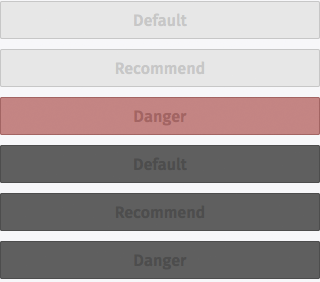
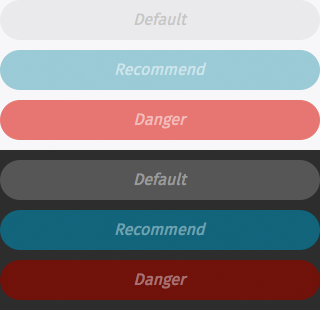
updated buttons demo page

diff --git a/_includes/building-blocks/buttons_2.html b/_includes/building-blocks/buttons_2.html
@@ -1,9 +1,9 @@
 <div>
   <button disabled="disabled">Default</button>
-  <a class="recommend" role="button" aria-disabled="true" href="#">Recommend</a>
+  <a class="bb-button recommend" aria-disabled="true" href="#">Recommend</a>
   <button class="danger" disabled="disabled">Danger</button>
 </div>
-<div class="dark"><!-- disabled buttons over dark background -->
+<div class="skin-dark"><!-- disabled buttons over dark background -->
   <button disabled="disabled">Default</button>
   <button class="recommend" disabled="disabled">Recommend</button>
   <button class="danger" disabled="disabled">Danger</button>

diff --git a/_includes/building-blocks/buttons_3.html b/_includes/building-blocks/buttons_3.html
@@ -6,6 +6,6 @@
     <button disabled="disabled">Disabled</button>
   </li>
   <li><button>Action 1</button></li>
-  <li><button class="icon icon-view">View Name</button></li>
-  <li><button class="icon icon-dialog">Tuesday September 18, 2012</button></li>
+  <li><button data-icon="forward">View Name</button></li>
+  <li><button data-icon="expand">Tuesday September 18, 2012</button></li>
 </ul>

diff --git a/css/building_blocks.css b/css/building_blocks.css
@@ -52,6 +52,17 @@ form[role="dialog"][data-type="confirm"] > section {
   margin-left: 0;
 }
 
+.example .buttons .skin-dark {
+  padding-top: 1rem;
+  background: #2d2d2d;
+}
+
+.example .buttons a:hover,
+.example .buttons a:focus {
+  text-decoration: none;
+  color: #fff;
+}
+
 /* ADDITIONAL STYLING */
 /* Lists */
 .example [data-type="list"] {

diff --git a/_includes/building-blocks/buttons_1.html b/_includes/building-blocks/buttons_1.html
@@ -1,3 +1,3 @@
 <button>Default</button>
-<a class="recommend" role="button" href="#">Primary</a>
+<a class="bb-button recommend" href="#">Primary</a>
 <button class="danger">Danger</button>

diff --git a/building-blocks/buttons.md b/building-blocks/buttons.md
@@ -7,10 +7,10 @@ h2: <strong>Building Blocks:</strong> markup & examples
 
 ## Buttons
 
-Buttons perform an action when tapped by the user. Firefox OS has a wide variety of button styles to accommodate different uses and contexts. 
+Buttons perform an action when tapped by the user. Firefox OS has a wide variety of button styles to accommodate different uses and contexts.
 
 > ### Characteristics
-> * Buttons have two components: a visual target and a hit target. The visual target is the button the user sees on the screen. The hit target is an invisible area that responds to the tap. To minimize tapping errors, the hit target is typically larger than the visual target. 
+> * Buttons have two components: a visual target and a hit target. The visual target is the button the user sees on the screen. The hit target is an invisible area that responds to the tap. To minimize tapping errors, the hit target is typically larger than the visual target.
 > * Buttons have two states: normal and pressed.
 > * Disabled buttons are buttons that do not respond to a tap. Disabled buttons are dimmed.
 
@@ -21,12 +21,12 @@ Default buttons are used when there are only a few actions and a list isn't need
   <h4>Example</h4>
   <section class="example">
     <img src="../images/BB/buttons_1.jpg" alt="Buttons (Image replacing code)"/>
-    <article class="frame">{% include building-blocks/buttons_1.html %}</article>
+    <article class="frame buttons">{% include building-blocks/buttons_1.html %}</article>
   </section>
 
   <h4>Css link</h4>
   {% highlight html linenos=table %}<link href="(your styles folder)/style/buttons.css" rel="stylesheet" type="text/css">{% endhighlight %}
-  
+
   <h4>HTML code</h4>
   {% highlight html linenos=table %}{% include building-blocks/buttons_1.html %}{% endhighlight %}
 </div>
@@ -38,7 +38,7 @@ Disabled buttons do not respond to users' taps.
 
 <div>
   <h4>Example</h4>
-  <section class="example">
+  <section class="example buttons">
     <img src="../images/BB/buttons_2.png" alt="Buttons (Image replacing code)"/>
     <article class="frame">{% include building-blocks/buttons_2.html %}</article>
   </section>
@@ -59,7 +59,12 @@ List buttons are used when displaying a list of actions, or to trigger the displ
   <h4>Example</h4>
   <section class="example">
     <img src="../images/BB/buttons_3.png" alt="Buttons (Image replacing code)"/>
-    <article class="frame">{% include building-blocks/buttons_3.html %}</article>
+    <article class="frame buttons">{% include building-blocks/buttons_3.html %}</article>
+  </section>
+
+  <h4>Note</h4>
+  <section class="note">
+    <p>This example uses Gaia <a href="http://localhost:4000/building-blocks/icon-font.html">Icon Font</a>. For more details, please follow the link.</p>
   </section>
 
   <h4>Css link</h4>
